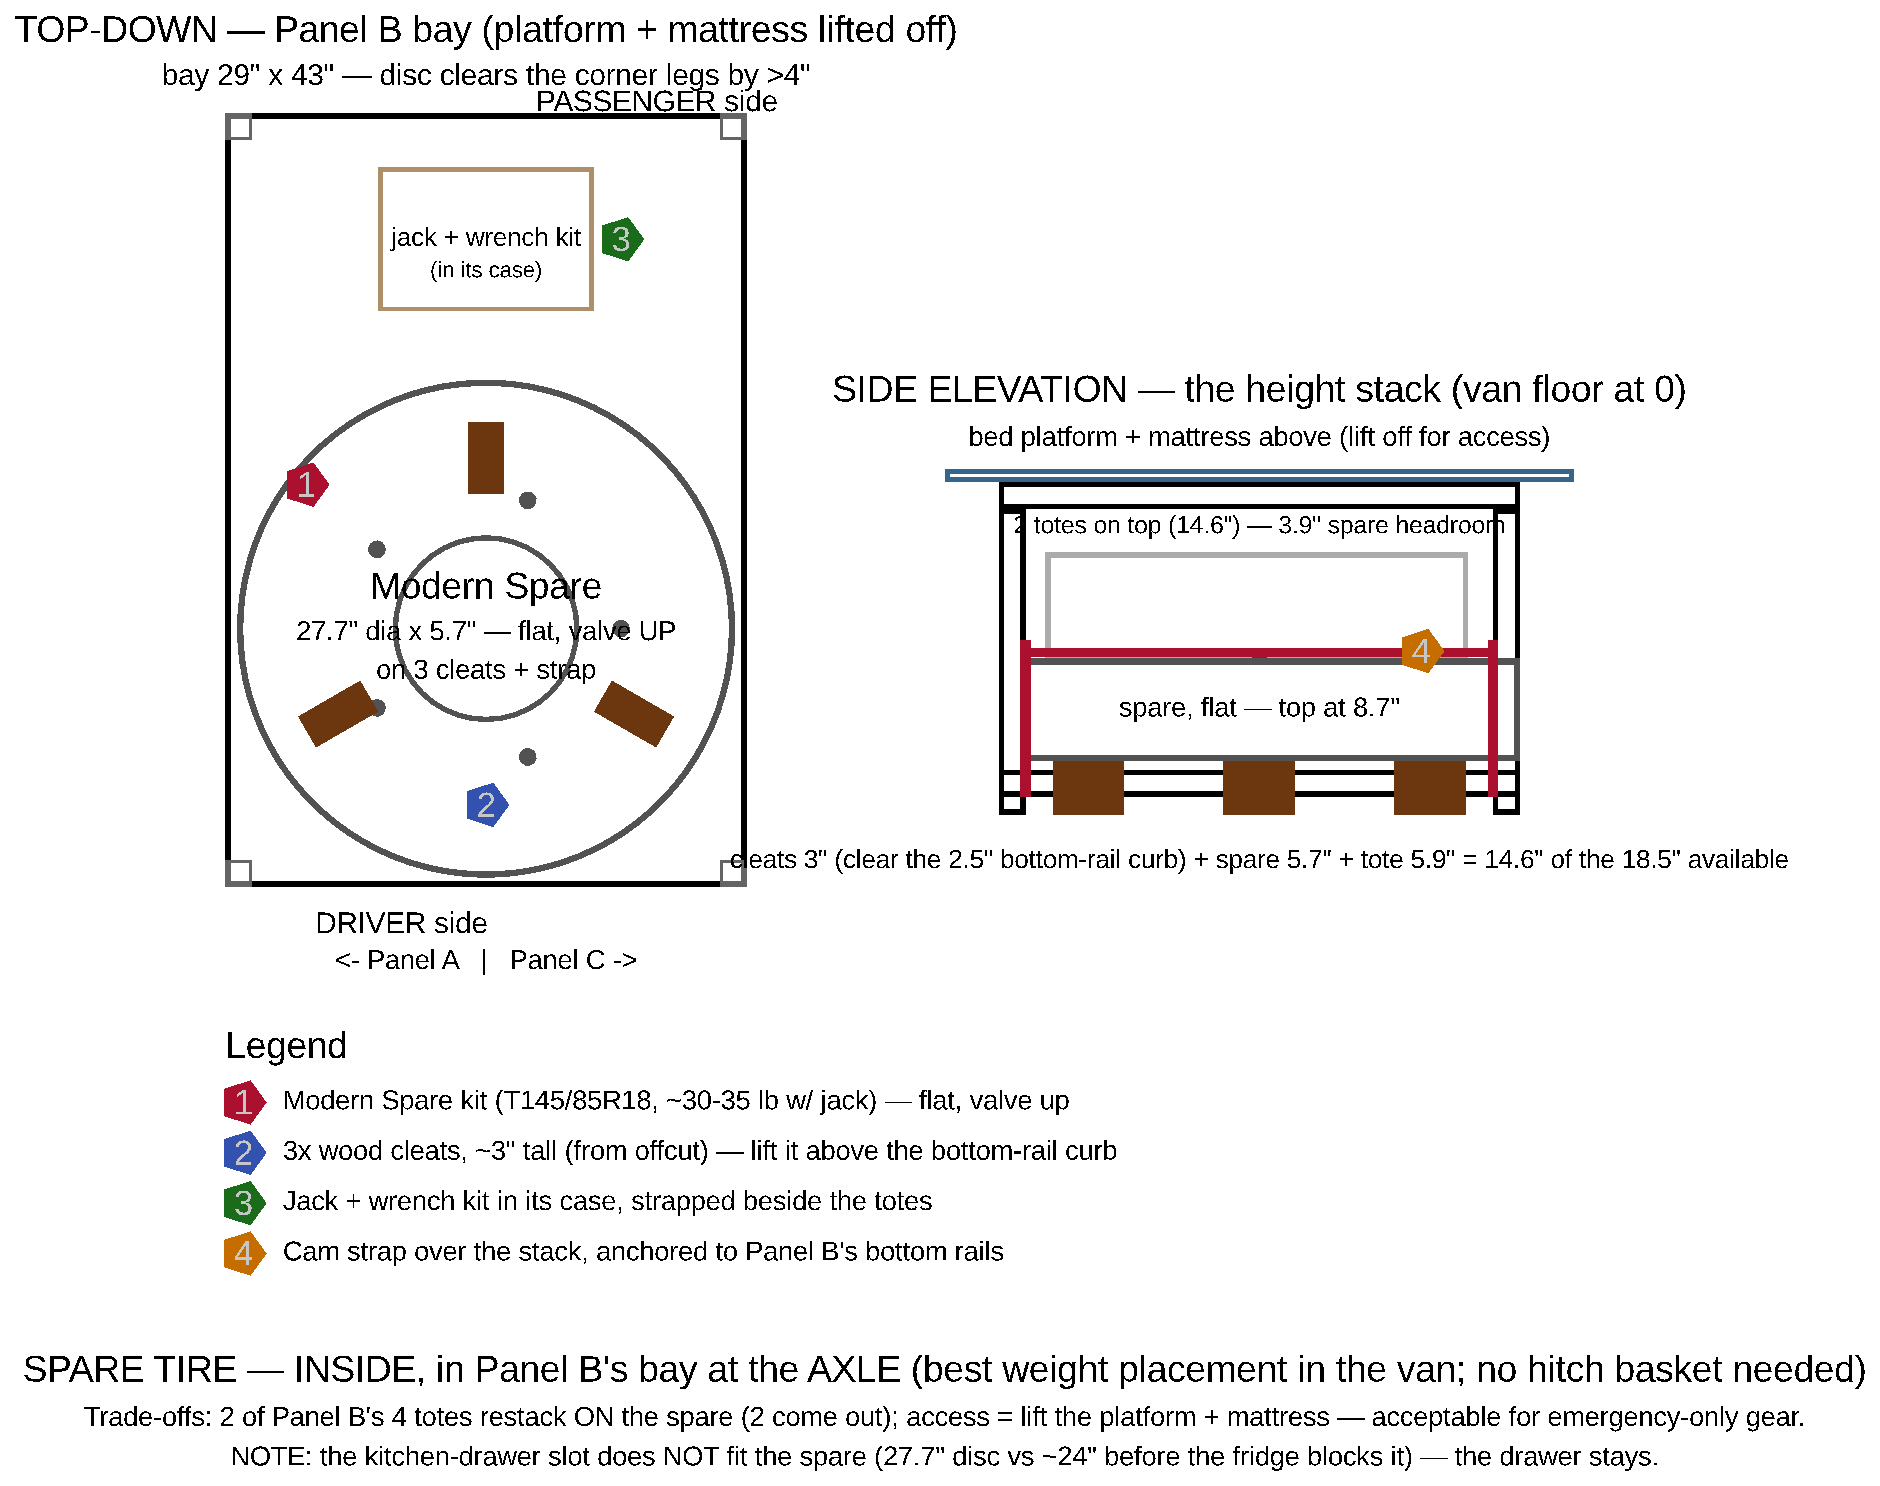
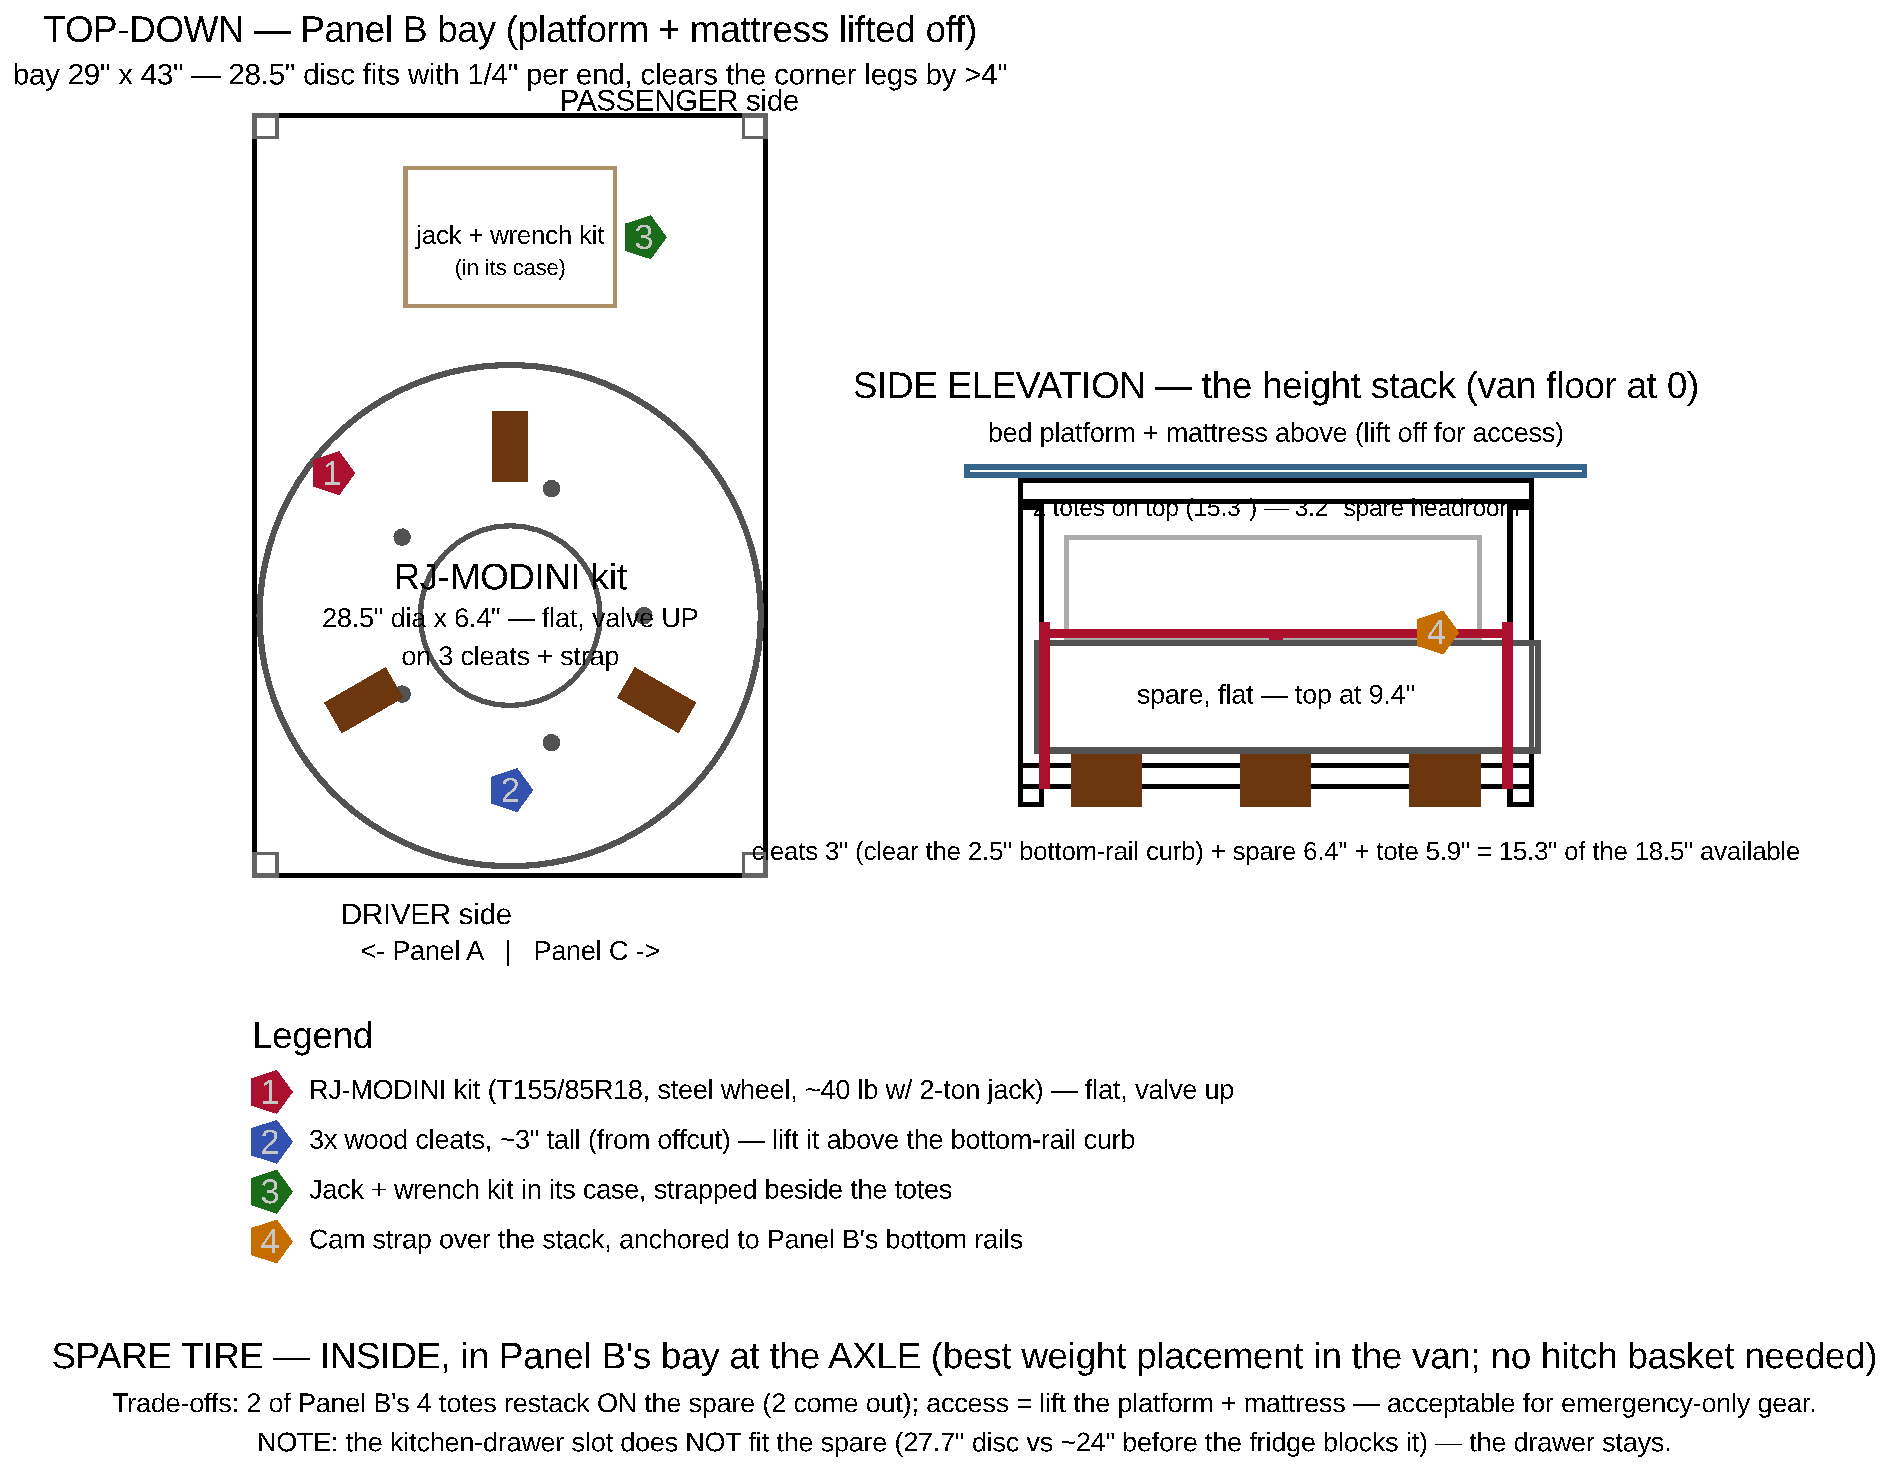
Spare = RJ-MODINI kit (T155/85R18 steel, 28.5" — closest OE diameter match, $349.95): update render/params/plan/weights (build ~441, net ~321, loaded ~781)/artifacts; totals ~$3,350-3,740

Changed region(s): [[0.0, 0.0, 0.9564, 0.6562], [0.0, 0.9062, 0.9872, 1.0], [0.1234, 0.6875, 0.6479, 0.875]]

diff --git a/design_review.html b/design_review.html
@@ -109,7 +109,7 @@
     <div><dt>Modules</dt><dd>3 + 4<small>Panels A/B/C + prefab drawer pantry</small></dd></div>
     <div><dt>Power</dt><dd>DELTA 3 +<small>Extra Battery · WAVE 3 A/C</small></dd></div>
     <div><dt>Cold</dt><dd>41 QT<small>Rocky 40 dual-zone, slide-out</small></dd></div>
-    <div><dt>Est. cost</dt><dd>$3.3–3.8k<small>full incl. spare kit; ~$2.6k if gear owned</small></dd></div>
+    <div><dt>Est. cost</dt><dd>$3.4–3.7k<small>full incl. spare kit; ~$2.7k if gear owned</small></dd></div>
   </dl>
 
   <h2>The layout</h2>
@@ -167,7 +167,7 @@
   <div class="feat">
     <h3><span class="cat">Structure</span>Modular lift-out platform</h3>
     <p>Three independent boxes — Panel A (29"), B (29"), C (36"), all 46" wide — built on 2×2 pine frames with leveling legs, plus a clamp-on pantry. Nothing bolts to the van; each box lifts out through the liftgate as a one/two-person carry. Cube-frame bottom rails add racking stiffness, and <b>4 hand-released over-center draw-latches</b> at the seams clamp the three boxes into one rigid beam without giving up the lift-out.</p>
-    <p>Built weight is <b>≈ 437 lb</b> (incl. an interior spare tire at the axle) (after lighter-wood swaps), ~884 lb loaded with two people — comfortably under the van's payload, though the mass is rear-biased (see the weight budget in the plan).</p>
+    <p>Built weight is <b>≈ 441 lb</b> (incl. an interior spare tire at the axle) (after lighter-wood swaps), ~884 lb loaded with two people — comfortably under the van's payload, though the mass is rear-biased (see the weight budget in the plan).</p>
   </div>
   <div class="feat">
     <h3><span class="cat">Sleeping</span>Cantilevered bed platform</h3>

diff --git a/build_sequence.html b/build_sequence.html
@@ -143,7 +143,7 @@ const PHASES = [
   { n: "9", title: "Install in the van", ref: "Comp. 10 + 8", crit: false, steps: [
     ["Set Panel A → B → C on the floor", "Drop each in, register the alignment pins, seat the bumpers.", ""],
     ["Connect power + stow the EcoFlow gear", "DELTA 3 Plus + Smart Extra Battery in Panel A's drawer (fridge DC + charging plugged in); WAVE 3 in the left bay.", ""],
-    ["Load Panel B: spare first, then totes", "Modern Spare flat on its 3 cleats + cam strap to the bottom rails; jack case beside it; 2 Sterilite totes restacked on top.", ""],
+    ["Load Panel B: spare first, then totes", "RJ-MODINI spare flat on its 3 cleats + cam strap to the bottom rails; tool case nested in the wheel; 2 Sterilite totes restacked on top.", ""],
     ["Lay the platform, mattress, curtain", "Platform onto Panel A/B's rails; HEST Dually Long on top; tension-rod curtain behind the cab.", ""],
   ]},
   { n: "10", title: "Commission & test", ref: "Comp. 10", crit: true, steps: [

diff --git a/shopping_list.html b/shopping_list.html
@@ -157,7 +157,7 @@ const DATA = [
   ["Frame Hardware &amp; Fasteners", [
     ["IRIS USA 12\"W stackable drawers (3-pack)", "Home Depot #500163 — the prefab rear pantry: buy 2 packs, stack 4 units 2x2 (24.2 x 14.3 x 16.8\"), 2 spares", "2 packs", 61, 61, "https://www.homedepot.com/p/IRIS-1-Drawer-Stackable-Storage-Unit-in-Gray-12-in-W-x-8-39-in-H-3-Pack-500163/318989007", "buy"],
     ["Sterilite 28-Qt under-bed lidded totes", "Panel B deep storage — restacked ON the spare (23.5 x 16.9 x 5.9\" each); plain lidded on purpose, no side access for drawers", "2", 22, 26, "https://www.amazon.com/Sterilite-16558010-28QT-Storage-Box/dp/B0042KXV28", "buy"],
-    ["Modern Spare complete kit (2021-2026 Sienna)", "T145/85R18 alloy spare + jack + wrench + case — stows FLAT in Panel B at the axle (Spare Tire Stowage render). VERIFY price/weight on the listing", "1 kit", 300, 390, "https://modernspare.com/product/2021-2026-toyota-sienna-spare-tire-kit-options/", "buy"],
+    ["RJ-MODINI spare tire kit (2011-2026 Sienna incl. Hybrid)", "T155/85R18 steel wheel, 28.5\" dia (closest OE match) + 2-ton jack + wrenches/sockets + cases — stows FLAT in Panel B at the axle. VERIFY weight/dims on arrival", "1 kit", 350, 350, "https://www.amazon.com/RJ-MODINI-2011-2026-Including-Changing-Storage/dp/B0F7QJXHWJ", "buy"],
     ["Rear-pantry hold-down kit", "1\" cam-buckle strap + 2 flush deck D-rings + anti-rattle felt tape + 2 Velcro ties (cleats from the ply offcut)", "1 set", 26, 26, null, "buy"],
     ["Pot/pan crate", "Rigid ~13\" milk crate for the open deck bay (the pots' 11x11 box drops inside) + a bungee — e.g. 1 of an ORGANIZE-IT 4-pack", "1", 15, 15, null, "buy"],
     ["Corner brackets", "Frame joints, 4 per panel x 3 panels", "12", 12, 12, null, "buy"],

diff --git a/weight_budget.py b/weight_budget.py
@@ -26,7 +26,7 @@ add("Fridge tray (3/8\" birch + edge frame)", "Structure", ply(17.72*28.74,0.375
 add("Kitchen drawer + cheeks (1/2\" birch)", "Structure", ply(744,0.5)+ply(322,0.5), 80, 13, "hung over the kitchen unit")
 add("Rear pantry: 4x IRIS 12\"W drawer units + hold-down", "Structure", 13.0+2.0, 87, -10, "2x2 prefab cluster (est ~3.2lb/unit) + cleats/strap — replaces the ~42lb plywood pantry")
 add("Panel B: 2x Sterilite 28-Qt under-bed totes (empty)", "Hardware/misc", 4.0, 43.5, 5, "restacked ON the spare (2 of the original 4)")
-add("Modern Spare kit + jack (Panel B bay, flat at the axle)", "Hardware/misc", 36.0, 43.5, -4, "T145/85R18 kit ~30-35lb + 3 cleats/strap — VERIFY kit weight on arrival")
+add("RJ-MODINI spare kit + jack (Panel B bay, flat at the axle)", "Hardware/misc", 40.0, 43.5, -4, "T155/85R18 steel wheel + 2-ton jack/tools — VERIFY kit weight on arrival")
 add("Bed platform (1x4 pine, 2 rails + 8 slats)", "Structure", pine_1x4(2*58+8*45), 29, 0, "flush slat deck over A+B")
 
 # ---- APPLIANCES ----

diff --git a/sienna_camper_build_plan.md b/sienna_camper_build_plan.md
@@ -292,7 +292,7 @@ Coordinates for the fixed/structural items (drawers, panels, fridge, kitchen) co
 ### How under-deck storage is accessed, by panel
 
 - **Panel A**: a **center divider** splits its under-deck void in two. The right (passenger) side is the one real drawer on a 20" full-extension slide (the DELTA 3 stack); the left (driver) side is **WAVE 3 open storage** — no box, no slide, the unit rests on 2 glide strips, reached by hand through the driver's side door. Both van side doors are used, both for Panel A only.
-- **Panel B**: **no drawers, no divider** — the side-door openings don't reach it. Its whole bay is deep storage: lift the platform + mattress off and load from above. **The SPARE TIRE stows here** (Modern Spare kit, flat on 3" cleats at the axle — the best weight placement in the van, Component 3) with **2× Sterilite 28-Qt lidded totes restacked on top** and the jack kit beside it — you lift out whole labeled totes instead of rummaging a loose pile (plain lidded totes on purpose: with no side access, a slide-drawer front would be a wasted feature). Use it for the long-term/bulky stuff you don't touch at camp.
+- **Panel B**: **no drawers, no divider** — the side-door openings don't reach it. Its whole bay is deep storage: lift the platform + mattress off and load from above. **The SPARE TIRE stows here** (RJ-MODINI kit, flat on 3" cleats at the axle — the best weight placement in the van, Component 3) with **2× Sterilite 28-Qt lidded totes restacked on top** and the jack kit beside it — you lift out whole labeled totes instead of rummaging a loose pile (plain lidded totes on purpose: with no side access, a slide-drawer front would be a wasted feature). Use it for the long-term/bulky stuff you don't touch at camp.
 - **Panel C**: no drawers at all. Its entire under-deck void is split between the fridge (left/driver side, on its own slide) and the kitchen unit (right/passenger side, on its own slide) — both bought products, both accessed by pulling them out through the **open tailgate**, not a side door. There's no "storage bay" here in the drawer sense; the fridge and kitchen units *are* the storage, permanently installed rather than removable containers. (There's a ~7–10" strip of under-deck space in *front* of the stowed appliances, but it's deliberately **left empty** — it's the intake fan's cool-air plenum, and it's boxed in with poor access, so filling it would choke the fridge cooling. The found-storage additions instead reclaim the dead headroom above the DELTA 3 and WAVE 3, and the utility cabinet's spare volume — see Component 8.)
 - None of the 3 panels needs to be lifted out for routine storage access — lifting a panel (gripping its exposed top rails) is only for deep cleaning or reconfiguring, per Section 8. (Panel B's bay is the exception in spirit: loading it means lifting the platform, though never the panel itself.) The rear pantry's drawer units are the one exception with routine lift-off access: loosen the cam strap and any unit lifts out in seconds — day-to-day restocking just opens the drawers, nothing needs removing.
 
@@ -384,7 +384,7 @@ Panel A, Panel B, and Panel C each get their own independent perimeter frame —
 | Rear pantry — hold-down | ~1" birch cleats (cab side + both sides, ripped from the 3/4" offcut) + 1 cam-buckle strap across the drawer fronts + 2 flush deck D-rings (strap anchors) + anti-rattle felt tape + 2 Velcro ties linking top units to bottom |
 | Pot/pan bay | 1 rigid ~13" milk crate (the pots' 11x11 box drops inside) in the ~21.8" of open deck beside the cluster + a corner cleat + a bungee |
 | Panel B deep-storage totes | 2x Sterilite 28-Qt under-bed lidded totes (23.5" x 16.9" x 5.9"), restacked ON the spare in Panel B's bay — containerized top-load storage (lift the platform, lift out whole totes) |
-| Spare tire stowage | Modern Spare kit (T145/85R18, 27.7" x 5.7", ~30-35 lb w/ jack) FLAT in Panel B's bay at the axle: 3x ~3" cleats (offcut) + 1 cam strap to the bottom rails + jack case beside it — see the Spare Tire Stowage render |
+| Spare tire stowage | RJ-MODINI kit (T155/85R18 on an 18x4 steel wheel, 28.5" dia x ~6.4" stored, ~40 lb w/ 2-ton jack) FLAT in Panel B's bay at the axle: 3x ~3" cleats (offcut) + 1 cam strap to the bottom rails + tool case nested in the wheel — see the Spare Tire Stowage render |
 | Panel A/B diagonal corner braces | 8 total (2 per panel), steel flat-strap or angle bracket — recovers some of the racking rigidity lost by removing each panel's own top |
 | Leg leveling feet | 12 total (4 per panel x 3 panels), 3/8-16 T-nut + leveling glide bolt with a 1.5" floor pad and ~2" star-knob hand grip. Legs are CUT to 16" and drilled in the bottom end grain (1/2" dia x 3/4" deep) — the foot brings each back to an effective 17" (Leg Leveling Foot Detail render). Tip a corner slightly and spin the knob to level |
 | Bed platform side rails | 2, 58" x 3.5" x 3/4" (1x4 pine), set 52" apart outside-to-outside — the 45" slats pocket-screw between them into one flush 3/4" plane cantilevered 3" past the boxes per side (Bed Platform Detail render); the platform rests directly on Panel A/B's top rails and ends at the B/C seam |
@@ -411,7 +411,7 @@ Every wooden joint's method — biscuit vs. screw — with the exact biscuit spa
 | Rear pantry hold-down — 1 cam-buckle strap + 2 flush deck D-rings + anti-rattle felt tape + Velcro ties (cleats ripped from the 3/4" offcut) | 1 set | $26 | $26 |
 | Pot/pan bay — rigid ~13" milk crate + bungee (e.g. 1 of an ORGANIZE-IT 4-pack; in the ~21.8" bay) | 1 | $15 | $15 |
 | Panel B totes — Sterilite 28-Qt under-bed lidded (23.5" x 16.9" x 5.9"), restacked on the spare | 2 | $12 | $24 |
-| Modern Spare complete kit — 2021-2026 Sienna (T145/85R18 + jack + wrench + case) — **UNVERIFIED price, check the listing** | 1 | $300-390 | $300-390 |
+| RJ-MODINI spare kit — 2011-2026 Sienna incl. Hybrid (T155/85R18 steel, 28.5" dia + 2-ton jack + wrenches/sockets + cases) — **$349.95 on Amazon** | 1 | $350 | $350 |
 | 1/2" Baltic birch or shop-grade plywood, 4x8 sheet (kitchen drawer box & cheeks + battery-drawer bottom — the plywood pantry is deleted, so this sheet is now mostly spare) | 1 | $50 | $50 |
 | 3/8" Baltic birch plywood, half-sheet — weight swap (battery-drawer walls + fridge tray + Panel C front wall) | 1 | $25 | $25 |
 | 2x2 pine (8ft lengths) or aluminum L-channel | 12 | $8–15 | $96–180 |
@@ -478,7 +478,7 @@ Every wooden joint's method — biscuit vs. screw — with the exact biscuit spa
 
 - **Rear pantry (prefab)**: [IRIS USA 12"W stackable drawer 3-pack, Home Depot #500163](https://www.homedepot.com/p/IRIS-1-Drawer-Stackable-Storage-Unit-in-Gray-12-in-W-x-8-39-in-H-3-Pack-500163/318989007) (buy 2 packs; 2×2 cluster + 2 spares) + a [1"×6' cam-buckle strap 4-pack](https://www.amazon.com/Masterwise-Lashing-Buckles-Adjustable-Securing/dp/B0B4WP4MFL) + [flush deck D-rings](https://www.amazon.com/US-Cargo-Control-Stainless-Environments/dp/B00SLTKIQ8) + [felt tape](https://www.amazon.com/Adhesive-Polyester-Protecting-Furniture-Surfaces/dp/B09H72KZ2G) + VELCRO ONE-WRAP 8"×1/2" ties.
 - **Panel B deep-storage totes**: [Sterilite 28-Qt under-bed lidded tote](https://www.amazon.com/Sterilite-16558010-28QT-Storage-Box/dp/B0042KXV28) ×2 — plain lidded totes on purpose (Panel B has no side access, so slide-drawer versions would waste money).
-- **Spare tire**: [Modern Spare complete kit, 2021-2026 Sienna](https://modernspare.com/product/2021-2026-toyota-sienna-spare-tire-kit-options/) (also on [Amazon](https://www.amazon.com/Complete-Compact-Spare-Tire-Carrying/dp/B09LRFJRYV)) — T145/85R18 on an alloy wheel, diameter-matched to the AWD drivetrain; the COMPLETE kit includes the jack, wrench, and case. Cleats and strap come from stock already on hand.
+- **Spare tire**: [RJ-MODINI kit, 2011-2026 Sienna incl. Hybrid](https://www.amazon.com/RJ-MODINI-2011-2026-Including-Changing-Storage/dp/B0F7QJXHWJ) ($349.95) — T155/85R18 on an 18x4 steel wheel with the factory 60.1mm hub-centric bore; at **28.5" rolling diameter it's the closest match to the ~29.1" OE tires** (−2%, vs −4.8% for the T145 kits — gentlest on the AWD systems). Includes a model-specific 2-ton jack, lug + ratchet wrench, 4 sockets, gloves, and cases (the tool case nests inside the wheel barrel). Cleats and strap come from stock already on hand. (Alternatives compared: ValueSpare ~$270-385 steel/27.7", Modern Spare ~$350-460 alloy/27.7".)
 - **Leveling blocks**: [Lynx Levelers 10-pack](https://www.amazon.com/Lynx-Levelers-00015-Leveling-Blocks/dp/B000BUV1RK) — the "legos"; pair with the [Sienna Block Calculator](https://claude.ai/code/artifact/149333c6-8f02-47a2-915f-52d26d9059d9).
 - **Bubble levels**: [RV Designer E409 screw-on bubble level, 2-pack, screws included](https://www.amazon.com/RV-Designer-E409-Screw-Bubble/dp/B004MDYRZU) — the 3/4" body height matches the platform rail's exposed edge exactly. Alternate if you'd rather have 2-axis pucks: [4-pack 2" bullseye levels with mounting holes](https://www.amazon.com/Accuracy-Bullseye-Bubble-Spirit-Mounting/dp/B00XNEU654) (these need a horizontal surface — deck corner, not the rail edge).
 
@@ -507,7 +507,7 @@ Specific products verified against this plan's specs, full URLs shown for copy-p
 
 Slides + electrical together run **~$290-305**. These links satisfy the corresponding BOM rows above — don't double-count.
 
-**Estimated total (summing the BOM table above): ~$3,300–3,780 with the fridge + kitchen included, or ~$2,600–2,930 if you already own equivalents** — the owner-supplied CO monitor and fire extinguisher aren't priced here. The itemized BOM table is the authoritative figure; the breakdown below traces where the money goes and how the design's cost evolved. It includes ~$111 for the bed platform and its leveling — six 1x4 boards (~$30, weight swap dropped it from seven), 12 leg leveling feet w/ T-nuts (3 four-packs, ~$36), 12 star-knob grips + jam nuts (~$36), and the RV Designer E409 bubble-level 2-pack (~$9: pitch on the rail edge, roll on the rear-pantry deck edge); ~$19 for the kitchen drawer hung above the kitchen unit (slide pair + catch — its box and cheeks come out of the plywood sheets' spare area); ~$24 for Panel A/B's diagonal corner braces, added to recover some of the racking rigidity lost when their tops came off, ~$50–100 UNVERIFIED for the Ling Labs SRS seat emulators (Section 9), ~$43 that Power strip 1's old full-length cord run used to add (8ft cord + 2 grommets + 2 inline connector pairs — since deleted by the verified-outlet round below), and ~$52 that the old plywood pantry's retention system used to add (fiddle lips, lash straps, bins, liner, pins, net) — since removed with the prefab-drawer swap below. The July-18 round adds ~$191: a Lynx-style leveling-block 10-pack + chock (+$40 — per-site leveling moves to the wheels, driven by the Block Calculator), Kipp cam levers replacing the old plywood pantry's hex bolts and wing nuts (+$60 — later removed entirely by the prefab-drawer swap), three extra 2x2 boards for the cube-frame bottom rails (+$24 mid-range), a 10th cable grommet (+$6), two passive louvered cooling vents — a low cool-air intake scoop in the front wall and a low exhaust louver in the cabinet door (+$12), a pantry upgrade — an adjustable bottom-bay shelf plus the fiddle-lip/lash-strap/bins/liner retention system replacing the old nets-everywhere approach (a single soft-goods net stays) (+$33 net over the old $12 net), and 4 over-center seam draw-latches that clamp the three modules into one rigid beam (+$16); Panel B losing its drawers entirely (owner-confirmed: the side doors don't reach it — its bay is top-loaded deep storage now) saves ~$86: two slide pairs, two catches, and a whole 1/2" plywood sheet, less ~$8 for Panel C's new front wall hardware coming out of that freed sheet. Panel A's left bay going to WAVE 3 open storage instead of a 4th drawer nets out close to a wash: -$19 (one less drawer slide pair, one less catch, no more plywood tray) offset by the glide strips and a non-slip mat. Moving the fridge and fan system onto the DELTA 3 stack (instead of the van's rear outlet) adds ~$79: a 2nd cord (fridge DC line, Panel A to Panel C) and its own charging cord (front console to Panel A), the grommets and disconnects both need, and a 3-way splitter when 3 lines wanted the console's power (later downsized to a 2-way rear-outlet tap). Relocating the old plywood pantry onto Panel C's deck instead of its own module saved ~$20-34: one fewer module's worth of frame lumber (2 fewer 2x2 boards) and corner brackets, since it no longer needs a frame of its own. This is above the old built-from-plywood design's ~$1,245–1,452 mainly because of three swaps that trade DIY labor (or an inadequate factory feature) for bought reliability: a real BougeRV Rocky 40 + JAGAHAHA kitchen (~$700–850 combined, Rocky price UNVERIFIED) instead of building fridge/kitchen boxes from the same plywood as the panels, the fridge cooling/control electronics (2 fans, controller, sensor, surge protector — new this redesign, ~$85–120 combined), and real E-track floor anchors + rated straps (~$100) replacing the factory cargo hooks once those turned out to be rated for cargo nets only, not securing a 45-90lb item. The mattress is now a bought HEST Dually Long (~$530–590, cover included) — the DIY 2-layer fallback (~$185–255) stays in the BOM as the budget swap. The plywood was ~$115 across 2 sheets (one 3/4", one 1/2") after Panel A/B lost their tops, Panel B its drawers, and the pantry moved onto Panel C's deck — down from 4 sheets earlier. The July-2026 **weight swap** then thinned the non-critical panels to 1/2"/3/8" (~21 lb off the structure, Appendix E) and the bed to 8 slats: it shaves ~$5 on the 1x4s but adds a 3/8" half-sheet (~$25), so plywood is now ~$140 across a 3/4" sheet (lightly used), a 1/2" sheet (full), and a 3/8" half-sheet — a poor cost-per-pound, but the owner prioritized easier module lifts. A later review round also adds the per-module surface wire raceway — a CordMate II kit for the AC lines + an open-slot kit for the DC line, AC/DC separated (~$46, Section 5) — replacing the loose cord clips for cleaner, serviceable runs. Two optional material upgrades are documented but NOT in the total above — poplar top-rails (~$25–40) and aluminum corner braces (~$10–15), see Section 3's "Material options & upgrades." A verified-outlet round (the van has exactly **2 AC outlets: 1 front console + 1 back passenger area**) moves the cooktop and Power strip 1 onto the REAR outlet — deleting all 4 inline AC seam connectors (−$32), shortening both AC cords (−$14), downsizing the splitter to a 2-way tap (−$3), and dropping 3 grommets (−$18): **~−$65 and two fewer failure points per lift-out**. A later round then **swaps the plywood pantry for a prefab drawer cluster** (Component 1): out go ~$137 of pantry mounting + retention hardware (cam levers, 2 steel braces, fiddle-lips/straps/net, half-round edging) and ~42 lb of plywood/hardware; in come 4 IRIS 12"W stackable drawers + a cleat/strap hold-down + a pot crate (~$115, ~15 lb) — roughly cost-neutral and ~27 lb lighter, with nothing to build. A companion change containerizes Panel B with Sterilite 28-Qt lidded under-bed totes so its top-loaded bay unloads as whole labeled boxes. Finally, a **Modern Spare kit** (+$300-390 UNVERIFIED, +~36 lb) stows flat in Panel B at the axle — chosen over a hitch basket (which would cost ~$180-400, add its own 30-60 lb, and lever ~130+ lb onto the rear axle) — displacing 2 of the 4 totes (−$24, −4 lb) (Appendix E).
+**Estimated total (summing the BOM table above): ~$3,350–3,740 with the fridge + kitchen included, or ~$2,650–2,890 if you already own equivalents** — the owner-supplied CO monitor and fire extinguisher aren't priced here. The itemized BOM table is the authoritative figure; the breakdown below traces where the money goes and how the design's cost evolved. It includes ~$111 for the bed platform and its leveling — six 1x4 boards (~$30, weight swap dropped it from seven), 12 leg leveling feet w/ T-nuts (3 four-packs, ~$36), 12 star-knob grips + jam nuts (~$36), and the RV Designer E409 bubble-level 2-pack (~$9: pitch on the rail edge, roll on the rear-pantry deck edge); ~$19 for the kitchen drawer hung above the kitchen unit (slide pair + catch — its box and cheeks come out of the plywood sheets' spare area); ~$24 for Panel A/B's diagonal corner braces, added to recover some of the racking rigidity lost when their tops came off, ~$50–100 UNVERIFIED for the Ling Labs SRS seat emulators (Section 9), ~$43 that Power strip 1's old full-length cord run used to add (8ft cord + 2 grommets + 2 inline connector pairs — since deleted by the verified-outlet round below), and ~$52 that the old plywood pantry's retention system used to add (fiddle lips, lash straps, bins, liner, pins, net) — since removed with the prefab-drawer swap below. The July-18 round adds ~$191: a Lynx-style leveling-block 10-pack + chock (+$40 — per-site leveling moves to the wheels, driven by the Block Calculator), Kipp cam levers replacing the old plywood pantry's hex bolts and wing nuts (+$60 — later removed entirely by the prefab-drawer swap), three extra 2x2 boards for the cube-frame bottom rails (+$24 mid-range), a 10th cable grommet (+$6), two passive louvered cooling vents — a low cool-air intake scoop in the front wall and a low exhaust louver in the cabinet door (+$12), a pantry upgrade — an adjustable bottom-bay shelf plus the fiddle-lip/lash-strap/bins/liner retention system replacing the old nets-everywhere approach (a single soft-goods net stays) (+$33 net over the old $12 net), and 4 over-center seam draw-latches that clamp the three modules into one rigid beam (+$16); Panel B losing its drawers entirely (owner-confirmed: the side doors don't reach it — its bay is top-loaded deep storage now) saves ~$86: two slide pairs, two catches, and a whole 1/2" plywood sheet, less ~$8 for Panel C's new front wall hardware coming out of that freed sheet. Panel A's left bay going to WAVE 3 open storage instead of a 4th drawer nets out close to a wash: -$19 (one less drawer slide pair, one less catch, no more plywood tray) offset by the glide strips and a non-slip mat. Moving the fridge and fan system onto the DELTA 3 stack (instead of the van's rear outlet) adds ~$79: a 2nd cord (fridge DC line, Panel A to Panel C) and its own charging cord (front console to Panel A), the grommets and disconnects both need, and a 3-way splitter when 3 lines wanted the console's power (later downsized to a 2-way rear-outlet tap). Relocating the old plywood pantry onto Panel C's deck instead of its own module saved ~$20-34: one fewer module's worth of frame lumber (2 fewer 2x2 boards) and corner brackets, since it no longer needs a frame of its own. This is above the old built-from-plywood design's ~$1,245–1,452 mainly because of three swaps that trade DIY labor (or an inadequate factory feature) for bought reliability: a real BougeRV Rocky 40 + JAGAHAHA kitchen (~$700–850 combined, Rocky price UNVERIFIED) instead of building fridge/kitchen boxes from the same plywood as the panels, the fridge cooling/control electronics (2 fans, controller, sensor, surge protector — new this redesign, ~$85–120 combined), and real E-track floor anchors + rated straps (~$100) replacing the factory cargo hooks once those turned out to be rated for cargo nets only, not securing a 45-90lb item. The mattress is now a bought HEST Dually Long (~$530–590, cover included) — the DIY 2-layer fallback (~$185–255) stays in the BOM as the budget swap. The plywood was ~$115 across 2 sheets (one 3/4", one 1/2") after Panel A/B lost their tops, Panel B its drawers, and the pantry moved onto Panel C's deck — down from 4 sheets earlier. The July-2026 **weight swap** then thinned the non-critical panels to 1/2"/3/8" (~21 lb off the structure, Appendix E) and the bed to 8 slats: it shaves ~$5 on the 1x4s but adds a 3/8" half-sheet (~$25), so plywood is now ~$140 across a 3/4" sheet (lightly used), a 1/2" sheet (full), and a 3/8" half-sheet — a poor cost-per-pound, but the owner prioritized easier module lifts. A later review round also adds the per-module surface wire raceway — a CordMate II kit for the AC lines + an open-slot kit for the DC line, AC/DC separated (~$46, Section 5) — replacing the loose cord clips for cleaner, serviceable runs. Two optional material upgrades are documented but NOT in the total above — poplar top-rails (~$25–40) and aluminum corner braces (~$10–15), see Section 3's "Material options & upgrades." A verified-outlet round (the van has exactly **2 AC outlets: 1 front console + 1 back passenger area**) moves the cooktop and Power strip 1 onto the REAR outlet — deleting all 4 inline AC seam connectors (−$32), shortening both AC cords (−$14), downsizing the splitter to a 2-way tap (−$3), and dropping 3 grommets (−$18): **~−$65 and two fewer failure points per lift-out**. A later round then **swaps the plywood pantry for a prefab drawer cluster** (Component 1): out go ~$137 of pantry mounting + retention hardware (cam levers, 2 steel braces, fiddle-lips/straps/net, half-round edging) and ~42 lb of plywood/hardware; in come 4 IRIS 12"W stackable drawers + a cleat/strap hold-down + a pot crate (~$115, ~15 lb) — roughly cost-neutral and ~27 lb lighter, with nothing to build. A companion change containerizes Panel B with Sterilite 28-Qt lidded under-bed totes so its top-loaded bay unloads as whole labeled boxes. Finally, an **RJ-MODINI spare kit** (+$350, +~40 lb — 28.5" diameter, the closest OE match of the kits compared) stows flat in Panel B at the axle — chosen over a hitch basket (which would cost ~$180-400, add its own 30-60 lb, and lever ~130+ lb onto the rear axle) — displacing 2 of the 4 totes (−$24, −4 lb) (Appendix E).
 
 ---
 
@@ -659,7 +659,7 @@ Panel A and Panel B share the same frame construction — neither has a top of i
 
 ### Component 3: Panel B
 
-Same frame construction as Panel A — and that's the whole build. **Panel B has no drawers, no divider, and no skirts**: the sliding-door openings sit over Panel A's footprint, not Panel B's (owner-confirmed), so nothing pulled sideways from this panel could ever clear a door. Its bay is deep storage instead — lift the platform + mattress and load it from above. **The SPARE TIRE lives here** (Modern Spare kit, flat on 3" cleats at the axle — see the Spare Tire Stowage render), with **2× Sterilite 28-Qt lidded totes restacked on top** and the jack kit strapped beside it, so whole labeled boxes lift out instead of loose items. The Panel B detail render dimensions **every hole in the panel**: the 4 leg-bottom leveling-insert holes (1/2" dia x 3/4" deep, dead center of each leg's end grain) and the alignment-pin holes on both seam faces (2x 3/8" dia x 3/8" deep, 3" in from each side edge).
+Same frame construction as Panel A — and that's the whole build. **Panel B has no drawers, no divider, and no skirts**: the sliding-door openings sit over Panel A's footprint, not Panel B's (owner-confirmed), so nothing pulled sideways from this panel could ever clear a door. Its bay is deep storage instead — lift the platform + mattress and load it from above. **The SPARE TIRE lives here** (RJ-MODINI kit, flat on 3" cleats at the axle — see the Spare Tire Stowage render), with **2× Sterilite 28-Qt lidded totes restacked on top** and the jack kit strapped beside it, so whole labeled boxes lift out instead of loose items. The Panel B detail render dimensions **every hole in the panel**: the 4 leg-bottom leveling-insert holes (1/2" dia x 3/4" deep, dead center of each leg's end grain) and the alignment-pin holes on both seam faces (2x 3/8" dia x 3/8" deep, 3" in from each side edge).
 
 **Parts needed:**
 
@@ -670,8 +670,8 @@ Same frame construction as Panel A — and that's the whole build. **Panel B has
 - Corner brackets — 4
 - Diagonal corner braces — 2
 - Deep-storage totes — 2x Sterilite 28-Qt under-bed lidded (23.5" x 16.9" x 5.9"), restacked ON the spare (plain lidded, NOT slide-drawer — no side access to use a drawer front)
-- SPARE TIRE — Modern Spare complete kit for the 2021-2026 Sienna (T145/85R18, 27.7" dia x 5.7", ~30-35 lb incl. jack/wrench/case — VERIFY weight + price on the listing). Stows FLAT in this bay at the AXLE: 3x ~3" wood cleats (from the 3/4" offcut) lift it above the bottom-rail curb, one cam strap over the stack anchors to the bottom rails, jack case strapped beside it
-- NOTE: the spare does NOT fit above the kitchen (27.7" disc vs ~24" before the fridge blocks it) — Panel B is the only interior spot, and it's the best one: 35 lb at the axle beats any hitch basket (which would lever ~130+ lb onto the rear axle)
+- SPARE TIRE — RJ-MODINI kit for the 2011-2026 Sienna incl. Hybrid (T155/85R18 steel wheel, 28.5" dia x ~6.4" stored, ~40 lb incl. 2-ton jack/wrenches/cases — VERIFY weight + dims on arrival). Stows FLAT in this bay at the AXLE: 3x ~3" wood cleats (from the 3/4" offcut) lift it above the bottom-rail curb, one cam strap over the stack anchors to the bottom rails, the tool case nests inside the wheel barrel
+- NOTE: the spare does NOT fit above the kitchen (28.5" disc vs ~24" before the fridge blocks it) — Panel B is the only interior spot, and it's the best one: 35 lb at the axle beats any hitch basket (which would lever ~130+ lb onto the rear axle)
 
 ![Spare tire stowage](renders/spare-stow-detail.png)
 
@@ -1095,7 +1095,7 @@ The order to build in — **dependency-first, not the Component numbering.** Wor
 
 **Phase 9 — Install in the van** (Components 10 + 8)
 1. Set Panel A → B → C; register the alignment pins.
-2. Connect power + stow the DELTA 3 stack and WAVE 3; load Panel B — spare flat on its cleats + strap, jack case beside it, 2 totes on top.
+2. Connect power + stow the DELTA 3 stack and WAVE 3; load Panel B — RJ-MODINI spare flat on its cleats + strap, tool case in the wheel, 2 totes on top.
 3. Lay the platform → HEST mattress → tension-rod curtain.
 
 **Phase 10 — Commission & test** (Component 10) — *critical*
@@ -1110,7 +1110,7 @@ Consolidates Section 4's BOM into a shopping order with links. Prices are estima
 
 **Lumber & Plywood** — 3/4" Baltic birch sheet ($65), 1/2" Baltic birch sheet ($50), 3/8" Baltic birch half-sheet ($25, weight swap), 12× 2×2 pine 8ft ($96–180), 6× 1×4 pine 8ft ($30), 3/4" half-round pine trim 46" ($7).
 
-**Frame / fasteners** — rear pantry: 2× IRIS 3-packs, Home Depot #500163 ($61) + cam strap/D-rings/felt/Velcro hold-down ($26) + pot crate ($15) + 2× Sterilite 28-Qt Panel B totes ($24) + the Modern Spare complete kit ($300–390, UNVERIFIED — stows in Panel B at the axle); corner brackets ×12 ($12); diagonal corner braces ×8 ($24); seam draw-latches ×4 ($16); wood screws ($20); wood glue ($8); [Ryobi R-series biscuit assortment](https://www.amazon.com/) ($12); alignment dowel pins ($3); anti-rattle bumper strip ($10).
+**Frame / fasteners** — rear pantry: 2× IRIS 3-packs, Home Depot #500163 ($61) + cam strap/D-rings/felt/Velcro hold-down ($26) + pot crate ($15) + 2× Sterilite 28-Qt Panel B totes ($24) + the RJ-MODINI spare kit ($350 — stows in Panel B at the axle); corner brackets ×12 ($12); diagonal corner braces ×8 ($24); seam draw-latches ×4 ($16); wood screws ($20); wood glue ($8); [Ryobi R-series biscuit assortment](https://www.amazon.com/) ($12); alignment dowel pins ($3); anti-rattle bumper strip ($10).
 
 **Drawers & slides** — Panel A drawer slides (GlideRite 20" 100lb 5-pack, *purchased*, $47); drawer catch ($3); kitchen-drawer slide 24" ($16) + catch ($3); fridge slide 24" heavy-duty locking (VADANIA, *purchased*, $79).
 
@@ -1130,7 +1130,7 @@ Consolidates Section 4's BOM into a shopping order with links. Prices are estima
 
 **Already owned (not priced):** EcoFlow DELTA 3 Plus + Smart Extra Battery, EcoFlow WAVE 3.
 
-**Total: ~$3,300–3,780 with the fridge + kitchen, or ~$2,600–2,930 if you already own equivalents** (see Section 4 for the full itemized BOM and every purchase link).
+**Total: ~$3,350–3,740 with the fridge + kitchen, or ~$2,650–2,890 if you already own equivalents** (see Section 4 for the full itemized BOM and every purchase link).
 
 ### Appendix C — Cut List (consolidated)
 
@@ -1170,7 +1170,7 @@ Every component's weight, computed from the real material dimensions (Baltic bir
 | Kitchen drawer + ½" cheeks (birch) | Structure | 13.1 | rear | hung over the kitchen unit |
 | Rear pantry: 4× IRIS 12"W drawer cluster + hold-down | Structure | 15.0 | rear | prefab 2×2 drawers (est.) + cleats/strap — replaces the ~42 lb plywood pantry |
 | Panel B: 2× Sterilite 28-Qt under-bed totes | Hardware/misc | 4.0 | mid | restacked ON the spare (2 of the original 4) |
-| Modern Spare kit + jack (Panel B, flat at the axle) | Hardware/misc | 36.0 | mid | T145/85R18 kit + cleats/strap — VERIFY kit weight |
+| RJ-MODINI spare kit + jack (Panel B, flat at the axle) | Hardware/misc | 40.0 | mid | T155/85R18 steel-wheel kit + cleats/strap — VERIFY kit weight |
 | Bed platform (1×4 pine, 2 rails + 8 slats) | Structure | 20.2 | front | flush slat deck over A+B |
 | Fridge (BougeRV Rocky 40, empty) | Appliances | 40.6 | rear | manual spec; +20–40 lb loaded |
 | Kitchen unit (JAGAHAHA) | Appliances | 45.0 | rear | listing spec |
@@ -1185,26 +1185,26 @@ Every component's weight, computed from the real material dimensions (Baltic bir
 | Electrical (2 fans, controller, fuse, 2 strips, cords) | Hardware/misc | 6.0 | mid | cooling + power runs |
 | Cooktop + cookware (stowed) | Hardware/misc | 12.0 | rear | induction top + pots in the kitchen |
 
-**Subtotals:** Structure **148.1** · Appliances **85.6** · Power/climate **81.7** · Bedding **35.0** · Hardware/misc **86.5**
-**Build total (added): ≈ 437 lb** — after the lighter-wood swaps and the prefab-drawer pantry swap, plus Panel B's 2 storage totes (~4 lb) and the **Modern Spare kit stowed at the axle (~36 lb)** — carried inside deliberately instead of on a hitch basket, which would have added its own 30–60 lb of carrier plus a ~1.4× lever on the rear axle.
+**Subtotals:** Structure **148.1** · Appliances **85.6** · Power/climate **81.7** · Bedding **35.0** · Hardware/misc **90.5**
+**Build total (added): ≈ 441 lb** — after the lighter-wood swaps and the prefab-drawer pantry swap, plus Panel B's 2 storage totes (~4 lb) and the **RJ-MODINI spare kit stowed at the axle (~40 lb)** — carried inside deliberately instead of on a hitch basket, which would have added its own 30–60 lb of carrier plus a ~1.4× lever on the rear axle.
 
 **But the 2nd-row seats come OUT** (Section 9), so the conversion *removes* weight too:
 
 | | Weight |
 |---|--:|
-| Build (added) | +437 lb |
+| Build (added) | +441 lb |
 | **2nd-row seats removed** (2 × ~48–70 lb) *est.* | **−120 lb** |
-| **NET permanent weight added vs. stock** | **≈ 317 lb** |
+| **NET permanent weight added vs. stock** | **≈ 321 lb** |
 
-So the van, converted and empty, weighs only about **317 lb more than a stock seatless curb** — and because the seats were part of the factory curb weight, pulling them **frees ~120 lb of payload** for your gear. **Weigh your actual seats to confirm** — captain's chairs vary; 120 lb is an estimate.
+So the van, converted and empty, weighs only about **321 lb more than a stock seatless curb** — and because the seats were part of the factory curb weight, pulling them **frees ~120 lb of payload** for your gear. **Weigh your actual seats to confirm** — captain's chairs vary; 120 lb is an estimate.
 
 **Loaded scenarios** (payload = everything you add to the van — build + people + cargo):
 
 | Scenario | Weight |
 |---|--:|
-| Net build (added − seats removed) | ≈ 317 lb |
-| + provisions (food, water, cookware, bedding ~120 lb) | ≈ 437 lb |
-| + 2 occupants (~340 lb, in the front seats while driving) | ≈ 777 lb |
+| Net build (added − seats removed) | ≈ 321 lb |
+| + provisions (food, water, cookware, bedding ~120 lb) | ≈ 441 lb |
+| + 2 occupants (~340 lb, in the front seats while driving) | ≈ 781 lb |
 
 #### Weight distribution
 
@@ -1214,7 +1214,7 @@ So the van, converted and empty, weighs only about **317 lb more than a stock se
 
 #### Effects on drivability
 
-- **Payload headroom:** loaded for travel (net build + provisions + 2 people, with the seats out) is **≈ 777 lb** — and that already includes the spare tire + jack. A 4th-gen Sienna's payload is roughly **1,100–1,300 lb** (the AWD Woodland is at the lower end), so there's a **~325–525 lb margin** — the removed seats buy back ~120 lb of that. Comfortable, but not unlimited once you add lots of water and gear. **VERIFY the exact figure on the driver door-jamb sticker** — that number, and the **rear GAWR**, are the hard limits.
+- **Payload headroom:** loaded for travel (net build + provisions + 2 people, with the seats out) is **≈ 781 lb** — and that already includes the spare tire + jack. A 4th-gen Sienna's payload is roughly **1,100–1,300 lb** (the AWD Woodland is at the lower end), so there's a **~320–520 lb margin** — the removed seats buy back ~120 lb of that. Comfortable, but not unlimited once you add lots of water and gear. **VERIFY the exact figure on the driver door-jamb sticker** — that number, and the **rear GAWR**, are the hard limits.
 - **Rear bias:** with 51% of the build mass in the rear third (much of it at/behind the rear axle), the fixed build alone loads the rear axle and slightly lightens the front — which reads as lighter steering, a bit more rear squat, and a raised headlight aim. **But while driving, the two occupants (340 lb) sit up front and more than offset that**, so the *loaded* vehicle is reasonably balanced. The rear bias matters most when driving **solo with a full rear and no front passenger**.
 - **Lateral / height:** negligible effect — the ~1.8" lateral offset is unnoticeable, and the low CG keeps handling stock-like.
 